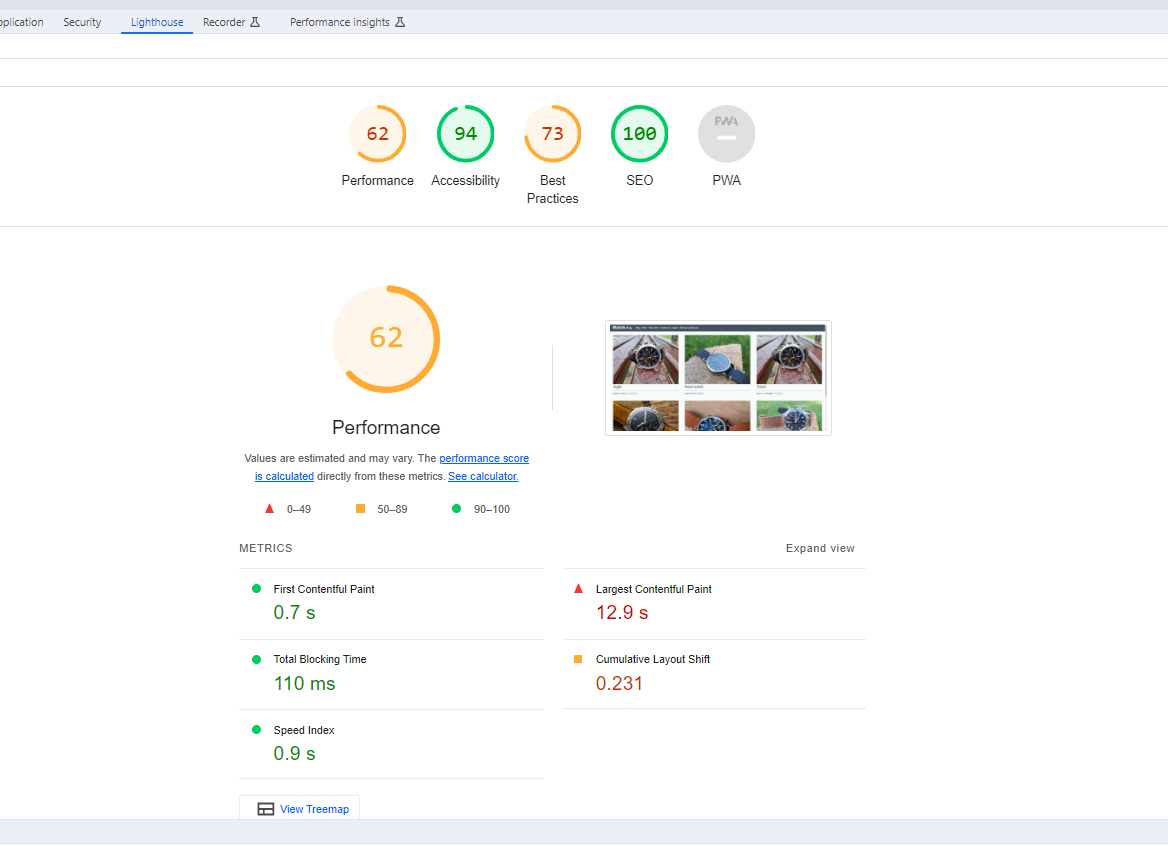
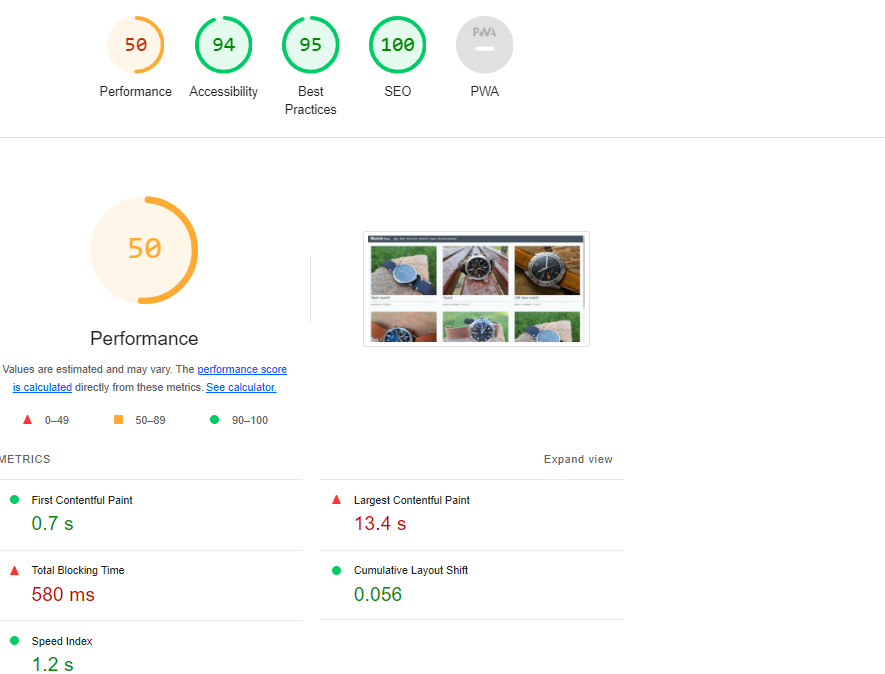
added best practice lighthouse to readme

diff --git a/static/css/style.css b/static/css/style.css
@@ -98,14 +98,6 @@ a.nav-link-active {
     padding-right: 10px;
 }
 
-.red-o {
-    color: #E84610;
-}
-
-.thin {
-    font-weight: 300;
-}
-
 .light-bg {
     background-color: #fff;
 }

diff --git a/README.md b/README.md
@@ -22,6 +22,11 @@ This site is a blog style watch site, aimed at people interested in Watches and 
 - [Django Admin](#django-admin)
 - [Testing](#testing)
 - [Deployment](#deployment)
+  - [How to Fork](#how-to-fork)
+  - [How to Clone](#how-to-clone)
+  - [ElephantSQL Database](#elephantsql-database)
+  - [Cloudinary](#cloudinary)
+  - [Heroku](#heroku)
 - [Issues](#issues)
 - [Technologies Used](#technologies-used)
 - [Frameworks, Libraries \& Programs Used](#frameworks-libraries--programs-used)
@@ -97,6 +102,7 @@ This was completed using [DrawSQL](https://drawsql.app/)
 ![Blog Colour](documentation/blogcolour.png)
 
 - Just under the blog image on the home page is the Author, the number of likes and comment icon. The colouring for this font isn't as strand as the Title of the blog, so it doesn't take away for the title name standing out.
+
 ![Comment link image](documentation/commentlink.png)
 
 
@@ -215,30 +221,52 @@ Please see [TESTNG.md](TESTNG.md) for all testing completed.
 
 # Deployment
 
+## How to Fork
+- Log in to Github
+- Go to repository for thi project.
+- Click the fork button in the top right corner
+
+## How to Clone
+- Log in(or Sign Up) to Github
+- Go to repository for this project
+- Click on the code button, select whether you would like to clone with HTTPS, SSH or GitHub CLI and copy the link shown.
+- Open the terminal in your code editor and change the current working directory to the location you want to use for the cloned directory.
+- Type the following command in the terminal (after the git clone you will need to paste the link you copied in step 3 above)
+- Set up a virtual environment.
+- Install the packages from the requirements.txt file - run Command pip3 install -r requirements.txt
+ 
+## ElephantSQL Database
 The website uses [ElephantSQL](https://www.elephantsql.com/) for its database.
 
 - I signed up with my GitHub account.
 - I created a new instance and the free plan was selected, and Europe was selected as the region.
 - Once created I was able to access the  and password for the database.
 
+## Cloudinary
+
 The website uses [Cloudinary](https://cloudinary.com/) for storing images.
 
 - I created an account in Cloudinary.
 - I copied the API environment variable over to the code.
 
+## Heroku
 The website was deployed to [Heroku](https://heroku.com/) by following these steps:
 
 - I created a new app/Project.
+- Enter a unique application name, Select your region, Click Create App
 - Inside the project settings tab and clicked reveal configuration vars
 - I added the following configuration vars: CLOUDINARY_URL, DATABASE_URL, PORT, SECRET_KEY - DISABLE_COLLECTSTATIC = Only for initial deployment-
 - I went to the deploy tab and connected the GitHub repository
+- Add the DATABASE_URL chosen SECRET_KEY value to the env.py file.
+- Update the settings.py file to import the env.py file with SECRETKEY and DATABASE_URL added.
+- Add Heroku to the ALLOWED_HOSTS list in settings.py ['app_name.heroku.com', 'localhost']
 - Made sure DEBUG was set to False and removed DISABLE_COLLECTSTATIC in configuration vars.
 - selected Deploy tab and clicked Main branch.
 - clicked on Open app.
 
 # Issues
 
-- It seem  that there was an issue with the order of the URL, the new_post url above the post_detail, What was happening was that Django was going through these urls in order, and stopping at the first one that matched the path info. It was solved by moving the new_post url above the post_detail.
+1. It seem  that there was an issue with the order of the URL, the new_post url above the post_detail, What was happening was that Django was going through these urls in order, and stopping at the first one that matched the path info. It was solved by moving the new_post url above the post_detail.
 <details>
 <summary>URL error</summary>
 
@@ -246,8 +274,9 @@ The website was deployed to [Heroku](https://heroku.com/) by following these ste
 ![URL error ](documentation/urlerror.png)
 </details>
 
-- SummerNote wasn't connecting because of Django clickjacking [Link](https://developer.mozilla.org/en-US/docs/Web/HTTP/Headers/X-Frame-Options).
-- I tried to have a Contact Us page on the site, early on in the project but I ran into a problem after trying to run python3 migrate in the terminal. Images below in Error Images wblog_contact. There was an issue saying that there was no contact Us and that it doesn't exist. After contacting tutor assistance, I was told that the database was corrupted and that if it was to be fixed, I would lose everything that I had done. I decided not to go ahead and deleted everything and start the project again.
+2. SummerNote wasn't connecting because of Django clickjacking [Link](https://developer.mozilla.org/en-US/docs/Web/HTTP/Headers/X-Frame-Options).
+
+3. I tried to have a Contact Us page on the site, early on in the project but I ran into a problem after trying to run python3 migrate in the terminal. Images below in Error Images wblog_contact. There was an issue saying that there was no contact Us and that it doesn't exist. After contacting tutor assistance, I was told that the database was corrupted and that if it was to be fixed, I would lose everything that I had done. I decided not to go ahead and deleted everything and start the project again.
 <details>
 <summary>Error Images wblog_contact</summary>
 
@@ -264,9 +293,19 @@ The website was deployed to [Heroku](https://heroku.com/) by following these ste
 
 - After realising that I wouldn't have to delete the whole project, I added the contact page to the site instead of adding videos, as feedback from the users is more valuable to the site. This could have saved me a lot of time working on other areas of the project. 
 
+4. There was an issue with the lighthouse score for Best Practices, when it was at 73. Saying the issue was that "Does not use HTTPS"
+<details>
+<summary>Does not use HTTPS</summary>
 
-
-
+![doesnothttp image](documentation/testing/doesnothttp.png)
+ </details>
+ 
+After reading posts in stack and going throught articles from the following sites 
+[stackoverflow HTTPS](https://stackoverflow.com/questions/2746047/why-not-use-https-for-everything), 
+[Developer.Chrome](https://developer.chrome.com/docs/lighthouse/pwa/is-on-https) ,
+[stackoverflow HTTPS](https://stackoverflow.com/questions/57132492/lighthouse-report-insecure-requests-found) ,
+[whynopadlock](https://www.whynopadlock.com/results/4ae115be-930a-4b66-ab0e-6282360235e4)
+which talked about adding a htaccess file to the root directory. I went and looked at the error message again. I could see that the insecure URL was from res.cloudinary and I changed the image, preformed the lighthouse test again and the scorw was up at 95. 
 
 
 
